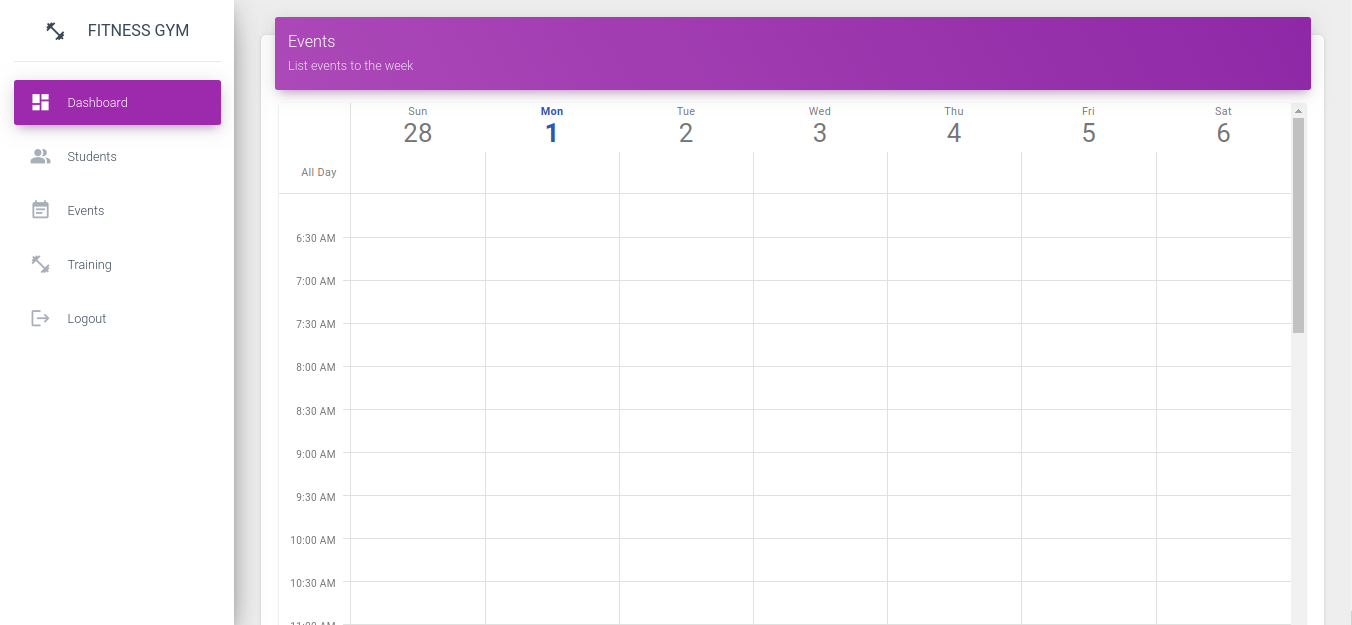
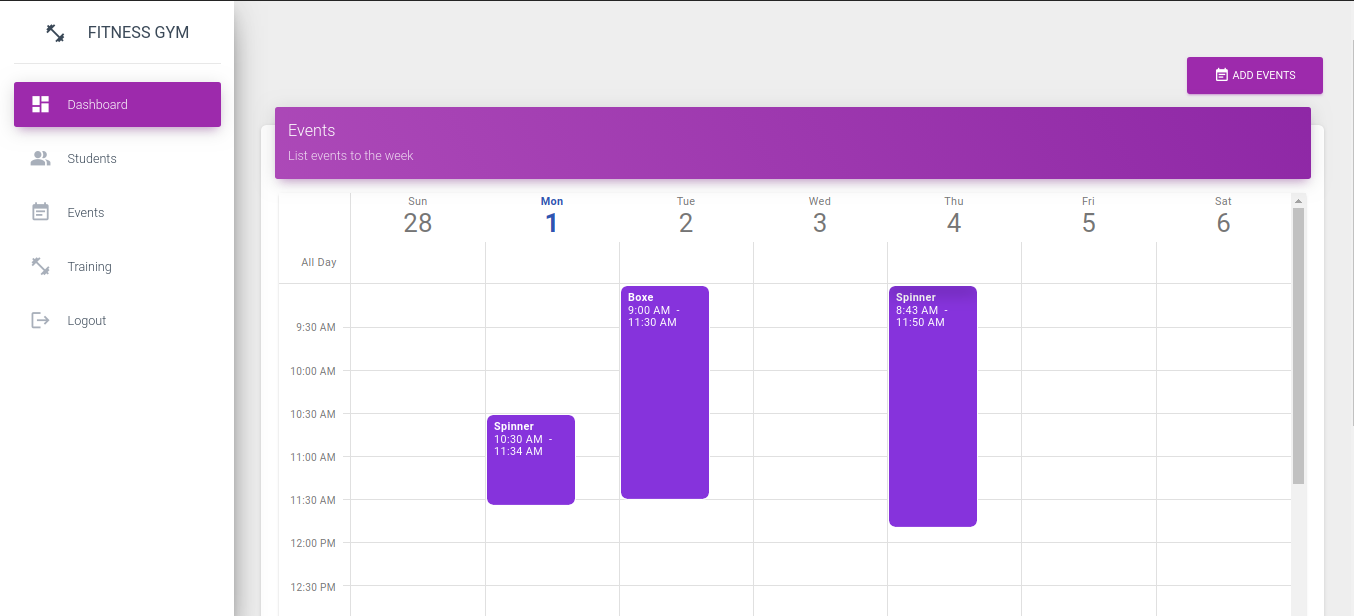
Add image e create events

diff --git a/src/pages/aulas/modal-add-events.js b/src/pages/aulas/modal-add-events.js
@@ -1,0 +1,78 @@
+import React, { useRef } from 'react';
+
+import { Form } from '@unform/web';
+import { Modal } from 'react-bootstrap';
+
+import Input from '../../components/Form/Input';
+import Select from '../../components/Form/select';
+import { api } from '../../service/api';
+import { swalerror, swalsuccess } from '../../util/dialog/index';
+
+export default function ModalAddEvents(props){
+  const formRef = useRef(null);
+
+  async function handleSubmit(data, { reset }) {
+    try {
+      await api.post(`/events`, { ...data })
+        .then((response) => {
+          if (response.status === 201) {
+            props.handleClose();
+            swalsuccess('training created is Success!', false);
+            reset();
+          }
+        })
+        .catch((error) => swalerror(`${error.response.data.error}`, true));
+    } catch (error) {
+      console.log('error', error.response);
+    }
+  }
+
+  return(
+    <Modal show={props.show} onHide={props.handleClose}>
+        <Modal.Header closeButton>
+          <Modal.Title>Modal heading</Modal.Title>
+        </Modal.Header>
+        <Modal.Body>
+        <Form onSubmit={handleSubmit} ref={formRef}>
+              <div className="col-md-12">
+                <div className="card">
+                  <div className="card-header card-header-primary">
+                    <h4 className="card-title">Add Training</h4>
+                    <p className="card-category">Add types trinin to the System</p>
+                  </div>
+                  <div className="card-body">
+                      <div className="row">
+                        
+                        <div className="col-md-12">
+                          <div className="form-group">
+                            <label className="bmd-label-floating">Name</label>
+                              <Input name="name" type="text" className="form-control" />
+                          </div>
+                        </div>
+
+                        <div className="col-md-12">
+                          <div className="form-group">
+                            <label className="bmd-label-floating">Start Date</label>
+                              <Input name="start_date" type="datetime-local" className="form-control" />
+                          </div>
+                        </div>
+
+
+                        <div className="col-md-12">
+                          <div className="form-group">
+                            <label className="bmd-label-floating">End Date</label>
+                            <Input name="end_date" type="datetime-local" className="form-control" />
+                          </div>
+                        </div>
+                      </div>
+
+                      <button type="submit" className="btn btn-primary btn-block">Add Training</button>
+                      <div className="clearfix" />
+                  </div>
+                </div>
+              </div>
+            </Form> 
+        </Modal.Body>
+      </Modal>
+  )
+}

diff --git a/src/pages/aulas/index.js b/src/pages/aulas/index.js
@@ -1,13 +1,49 @@
-import React, {  useEffect } from 'react';
+import React, {  useEffect, useState } from 'react';
+import { format } from 'date-fns';
+import { Link } from 'react-router-dom';
 
 import SideBar from '../sidebar';
 import Footer from '../footer';
-import Calendar from '../../components/calendar'
+import Calendar from '../../components/calendar';
+
+import { api } from '../../service/api';
+import { currentDate } from '../../util/date/getMonthAndYearUtil';
+import ModalAddEvents from './modal-add-events';
 
 export default function Aulas(){
 
+  const [schedulerData, setSchedulerData] = useState([]);
+  const [show, setShow] = useState(false);
+  const formateDate = (date) => format(new Date(date), "yyyy-MM-dd HH:mm")
+  
   useEffect(() => {
-  }, []);
+
+    const getEvents = async () => {
+      await api.get('/events')
+        .then((response) => {
+          if(response.status === 200) {
+            const arrayEvents = [];
+
+            response.data.forEach((element, index) => {
+              arrayEvents.push({ 
+                startDate: formateDate(element.start_date), 
+                endDate: formateDate(element.end_date), 
+                title: element.name,
+                id: index 
+              })
+            });
+            
+            setSchedulerData(arrayEvents);
+          }
+        })
+        .catch((error) => console.log('error', error))
+    }
+
+    getEvents();
+  }, [schedulerData]);
+
+  const handleClose = () => setShow(false);
+  const handleShow = () => setShow(true);
 
   return(
     <>
@@ -17,7 +53,14 @@ export default function Aulas(){
         <div className="content">
           <div className="container-fluid">
             <div className="row">
-              
+                          
+              <div className="col-sm-12">
+                <Link to="#" className="btn btn-primary float-right" onClick={ handleShow }>
+                  <i className="material-icons">event_note</i>
+                  {" "} Add Events
+                </Link>
+              </div>
+
               <div className="col-md-12">
                 <div className="card">
                   <div className="card-header card-header-primary">
@@ -27,19 +70,25 @@ export default function Aulas(){
 
                   <div className="card-body">
                     <Calendar
-                      data={[]}
-                      defaultCurrentDate={ [] } />
+                      data={schedulerData}
+                      defaultCurrentDate={ currentDate }
+                    />
                         
                   </div>
                 </div>
               </div>
-            
+
             </div>
           </div>
         </div>
 
         <Footer />
       </div>
+      
+      <ModalAddEvents
+        show={show}
+        handleClose={ handleClose }
+          />
     </>
   )
 }

diff --git a/src/components/calendar/index.js b/src/components/calendar/index.js
@@ -109,38 +109,33 @@ const Appointment = ({
 function Calendar(props) {
 
     return(
-        <>
-            <Paper>
-                <Scheduler
-                data={props.data}
-                height={660}
-                >
-                <ViewState
-                    defaultCurrentDate={props.defaultCurrentDate}
-                />
-                <WeekView
-                    startDayHour={6} //start hour
-                    endDayHour={23} //hour final
-                />
+      <>
+        <Paper>
+          <Scheduler
+          data={props.data}
+          height={660}>
 
-                
-                <Appointments 
-                    appointmentComponent={Appointment}/>
-                
-                <AppointmentTooltip
-                    showCloseButton
-                    headerComponent={Header}
-                    contentComponent={Content}
-                    commandButtonComponent={CommandButton}
-                />
+            <ViewState
+              defaultCurrentDate={props.defaultCurrentDate} />
+            
+            <WeekView
+              startDayHour={9} //start hour
+              endDayHour={22} //hour final
+            />
 
-                <AllDayPanel />
-                
-                </Scheduler>
+            <Appointments 
+              appointmentComponent={Appointment}/>
+            
+            <AppointmentTooltip
+              showCloseButton
+              headerComponent={Header}
+              contentComponent={Content}
+              commandButtonComponent={CommandButton} />
 
-            </Paper>
-
-        </>
+            <AllDayPanel />
+          </Scheduler>
+        </Paper>
+      </>
     )
 }
 

diff --git a/src/util/date/getMonthAndYearUtil.js b/src/util/date/getMonthAndYearUtil.js
@@ -6,6 +6,8 @@ const dateActual = format(
   "'Dia' dd 'de' MMMM', às ' HH:mm'h'"
 );
 
+const currentDate = format(new Date(), "yyyy-MM-dd");
+
 const convertDate = (date) => {
   return format(new Date(date), "dd/MM")
 }
@@ -16,4 +18,4 @@ const addMonth = (date) => {
 }
 
 
-export { dateActual, convertDate, addMonth }
+export { dateActual, convertDate, addMonth, currentDate }

diff --git a/src/pages/training/index.js b/src/pages/training/index.js
@@ -10,13 +10,10 @@ import Footer from '../footer';
 import ModalTraininig from './modal-training';
 import { swalerror, swalsuccess } from '../../util/dialog/index';
 
-
-
 export default function Training() {
   const [trainings, setTraining] = useState([]);
 
   const [show, setShow] = useState(false);
-
 
   useEffect(() => {
     async function getTraining() {
